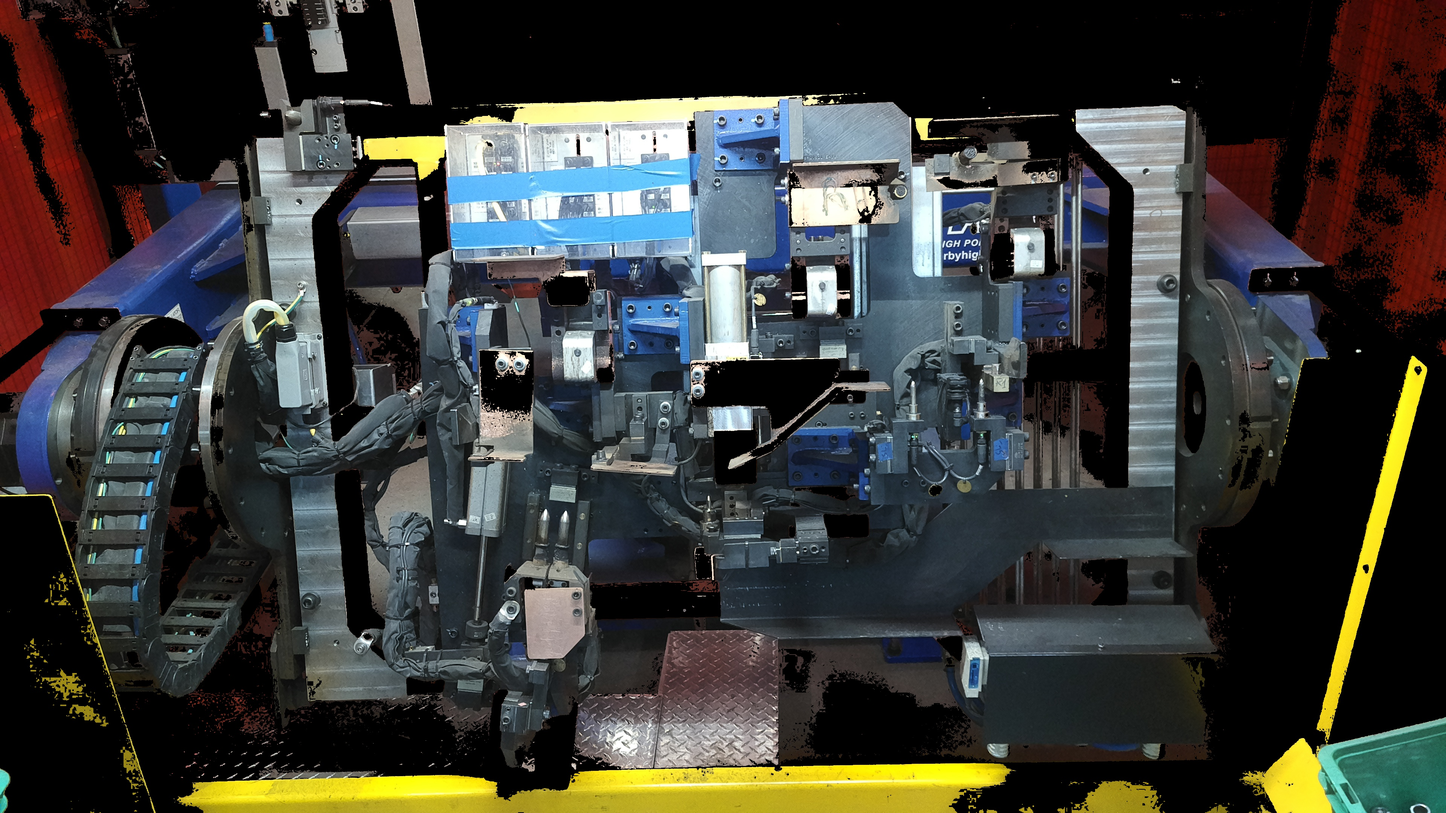
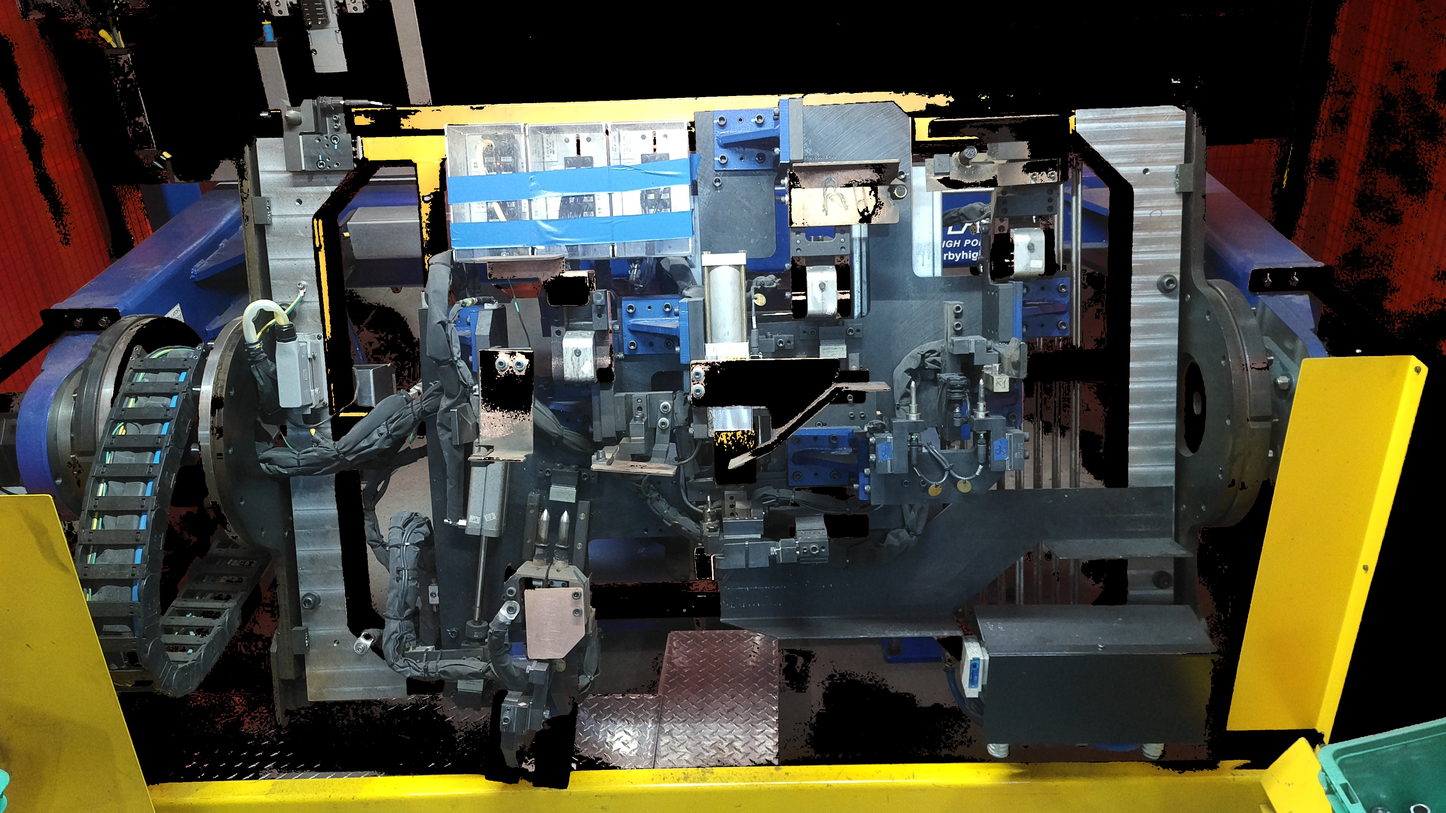
MVP BABYYYYYYYYYY

diff --git a/TESTS/test4.py b/TESTS/test4.py
@@ -8,7 +8,7 @@ import os
 #FUNCTIONS:
 def orange2Black(image):
   ORANGE_MIN = np.array([5, 50, 50], dtype = "uint8")
-  ORANGE_MAX = np.array([25, 255, 255], dtype = "uint8")
+  ORANGE_MAX = np.array([20, 255, 255], dtype = "uint8")
 
   hsv_img = cv.cvtColor(image, cv.COLOR_BGR2HSV)
 
@@ -22,14 +22,36 @@ def orange2Black(image):
   return image
 
 def fillByLine(img, direction):
-  for row in range(img.shape[0]):
-    start, stop = 0, 0
+  if direction == "H":
+    for row in range(img.shape[0]):
+      start, stop = 0, 0
+      for col in range(img.shape[1]):
+        if img[row,col] != 0 and start == 0: 
+          start = col, row
+        if img[row ,col] != 0: 
+          stop = col, row
+      
+        if start != 0 and np.abs(start[0]-stop[0]) <= 100: #MAX AMOUNT TO FILL
+            cv.line(img, start, stop, 255, 1)
+            start=stop
+        elif start!= 0 and np.abs(start[0]-stop[0]) > 100:
+          start=stop
+
+  if direction == "V":
     for col in range(img.shape[1]):
-        if img[row,col] != 0 and start == 0: start = col, row
-        if img[row,col] != 0: stop = col, row
-    if start != 0:
-        cv.line(img, start, stop, 255, 1)
-  
+      start, stop = 0, 0
+      for row in range(img.shape[0]):
+        if img[row,col] != 0 and start == 0: 
+          start = col, row
+        if img[row ,col] != 0: 
+          stop = col, row
+      
+        if start != 0 and np.abs(start[1]-stop[1]) <= 100: #MAX AMOUNT TO FILL
+            cv.line(img, start, stop, 255, 1)
+            start=stop
+        elif start!= 0 and np.abs(start[1]-stop[1]) > 100:
+          start=stop
+    
   return img 
 
 def floodFill(imgThresh):
@@ -45,8 +67,8 @@ def floodFill(imgThresh):
 
 noneDir = 'TESTS/NONE/'
 stdDir = 'TESTS/STD/'
-stdPath = ['STANDARD1.jpg','STANDARD2.jpg','STANDARD3.jpg','STANDARD4.jpg']
-nonePath = ['NONE1.jpg','NONE2.jpg','NONE3.jpg','NONE4.jpg']
+stdPath = ['STANDARD2.jpg','STANDARD3.jpg','STANDARD4.jpg']
+nonePath = ['NONE2.jpg','NONE3.jpg','NONE4.jpg']
 noneArray = []
 stdArray = []
 
@@ -79,7 +101,8 @@ for i in range(len(stdArray)):
   subtract2 = cv.subtract(none_gray, std_gray)
 
   addImg = cv.add(subtract1, subtract2)
-
+  cv.imshow('t', addImg)
+  cv.waitKey(0)
 
   _, thresholdImg = cv.threshold(addImg, 50, 255, cv.THRESH_BINARY)
 
@@ -98,10 +121,18 @@ for i in range(len(stdArray)):
   print("dodo")
 
 ref[ref != 0] = 255
-ref = floodFill(ref)
-# ref = fillByLine(ref)
 
-cv.imwrite("hi.jpg", ref)
+#Corrections
+kernel = np.ones((3,3), np.uint8)
+
+ref = fillByLine(ref, "H")
+ref = floodFill(ref)
+ref = fillByLine(ref, "V")
+
+img = cv.imread('TESTS/STD/STANDARD4.jpg')
+result = cv.bitwise_and(img, img, mask = ref)
+
+cv.imwrite("hi.jpg", result)
 print("KENT WAS WRONG")
 
 
